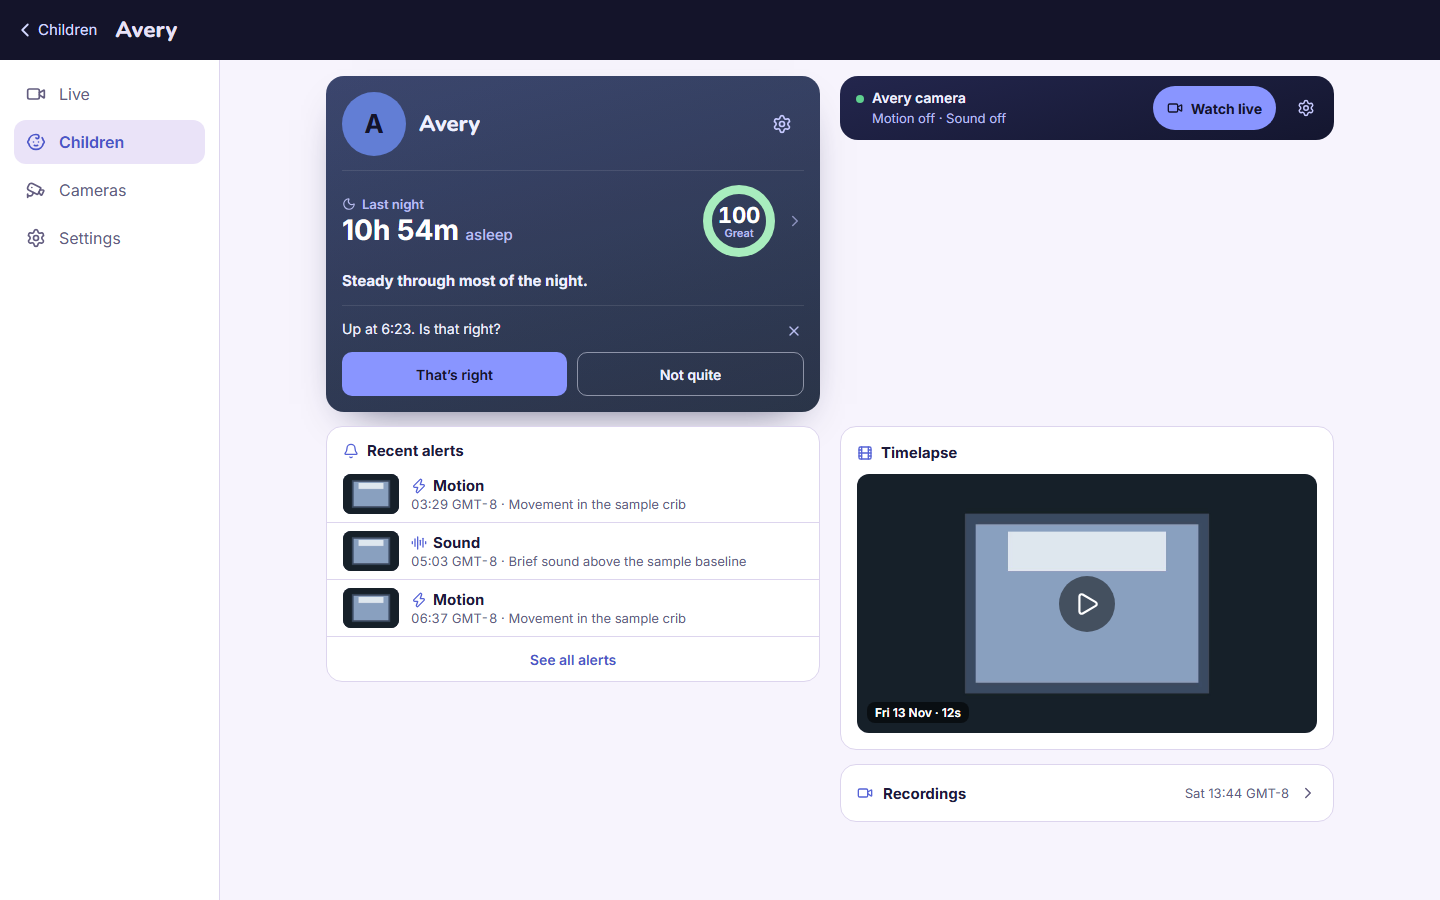
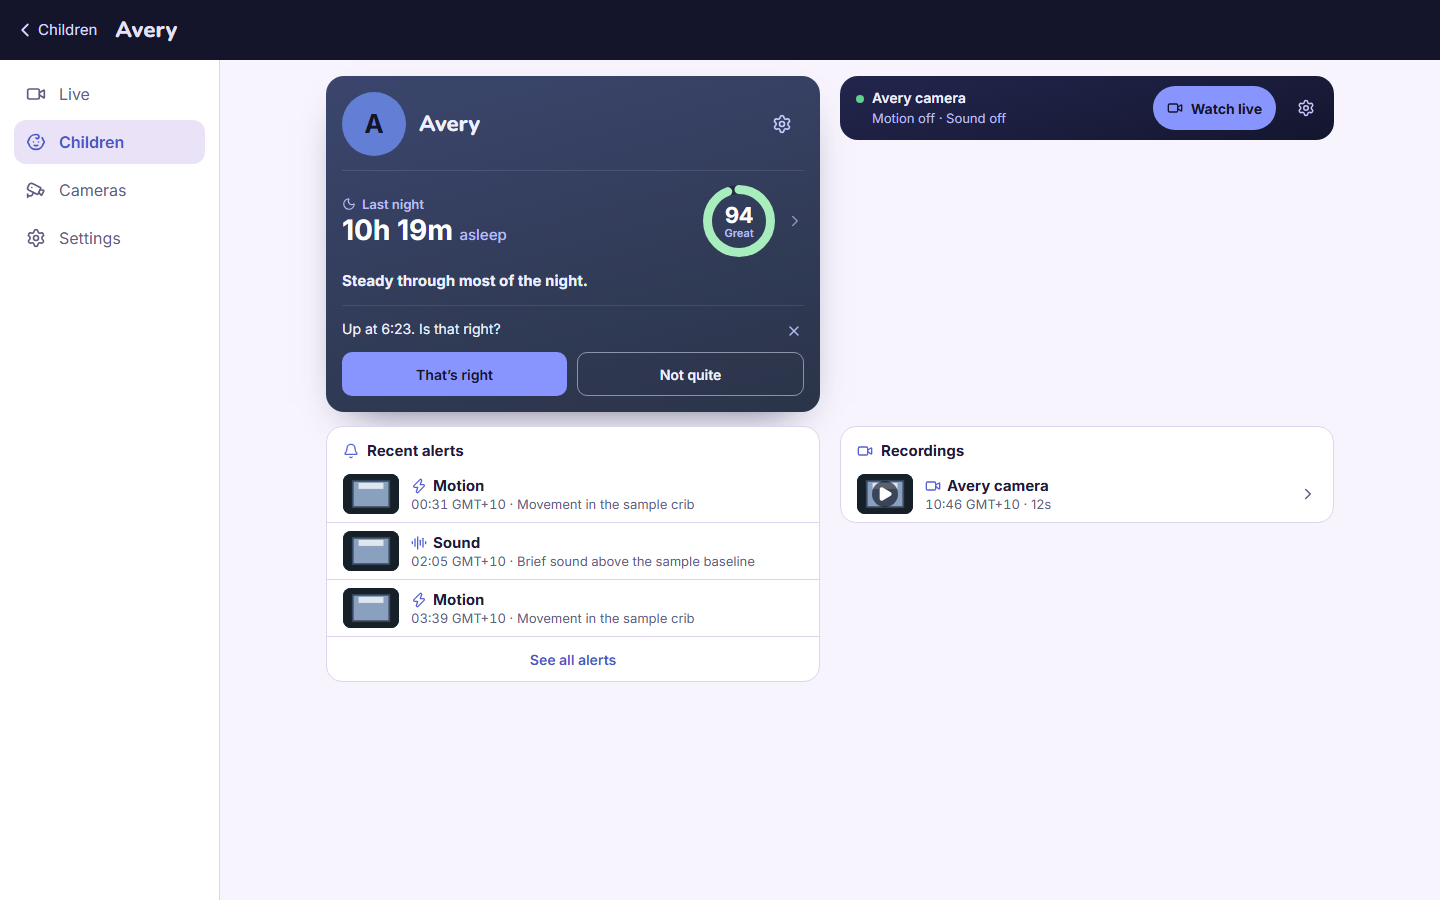
Refresh the documentation walkthrough screenshots; the capture no longer depends on the time of day
Six pictures changed since the 0.48.0 refresh: the child page (phone and desktop: timelapse now on each night's
page, Recordings styled like Recent alerts), the night detail (new corrected-night figures), the morning check,
recent alerts and the caregiver Settings (version 0.49.0).

The walkthrough capture timed out in the small hours UTC: the seeded child's 19:00-07:00 sleep window was open, so
the child page read "Tonight" instead of "Last night" and capture.mjs waited for text that never came. run.sh now
seeds in a fixed-offset zone where it is about midday when the clock is near the window (start.sh reads it from
WALKTHROUGH_TZ); at other times it keeps UTC as before. The times in the pictures read "GMT+10" in this refresh.

diff --git a/e2e/README.md b/e2e/README.md
@@ -145,6 +145,9 @@ fictional demo household (`backend/src/lib/demoSeed.js`) and turned into a norma
 writes the PNGs into `docs/screenshots/`. Look at the images, update the captions in `docs/README.md` if a screen
 changed, and commit the PNGs. If Playwright's own browser is not installed, set `WALK_CHROMIUM` to a Chromium
 executable. The video is synthetic (`walkthrough/make-loop.sh`); the image ships no fonts, so it has no caption.
+The seeded child's sleep window is 19:00 to 07:00, and the child page only reads "Last night" while it is closed, so
+when you run it between about 17:00 and 08:00 UTC, `run.sh` seeds in a fixed-offset zone where it is about midday (the
+times in the pictures then read "GMT+10" or similar instead of "UTC").
 
 `playwright/tests/05-screenshots.spec.js` still captures a few screens into `playwright/screenshots/` (uploaded by
 CI as the `docs-screenshots` artifact), but only as a smoke test that those screens render. The committed images
